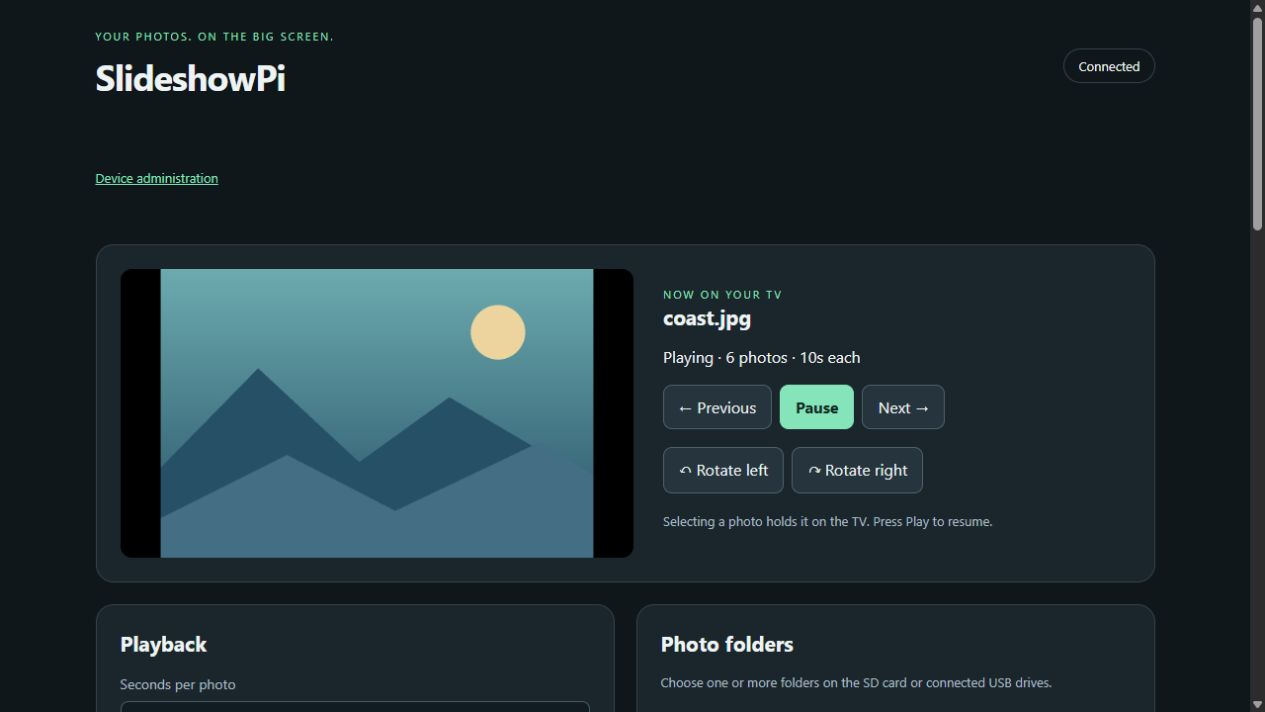
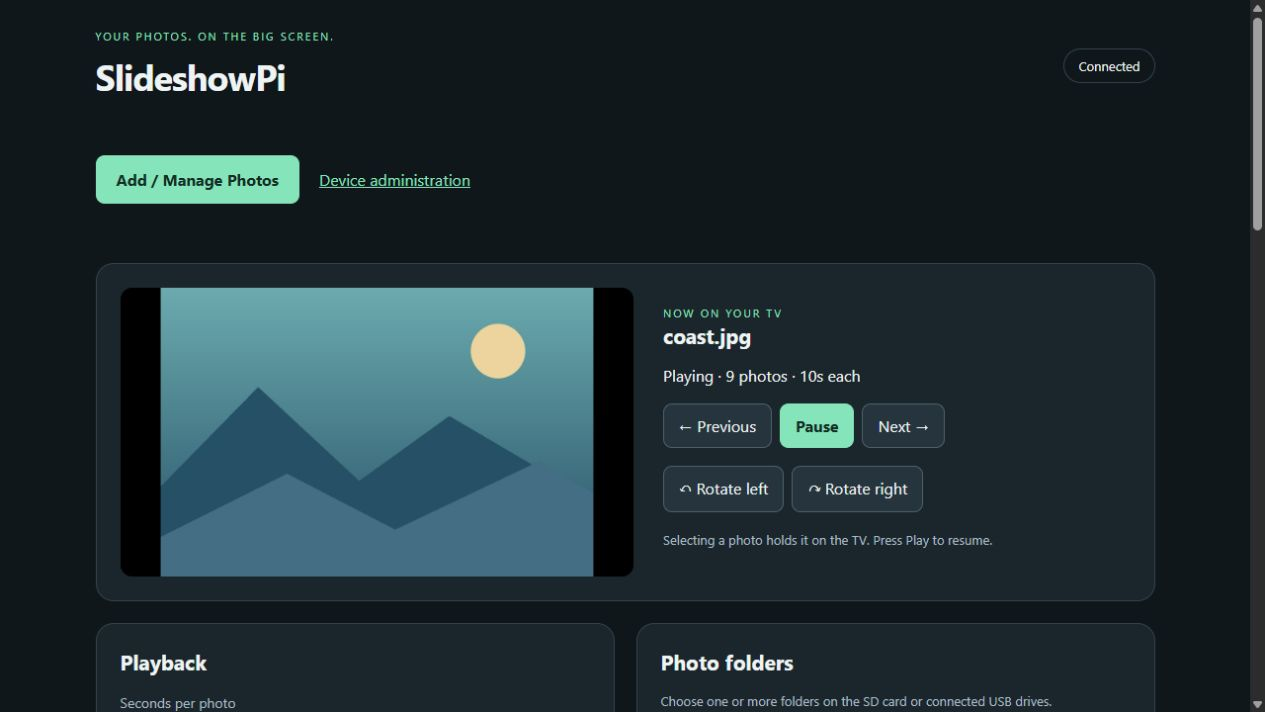
Make photo management prominent and remove duplicate upload controls

diff --git a/static/app.js b/static/app.js
@@ -26,11 +26,7 @@ function populateFolders(next) {
     label.append(input, document.createTextNode(path.replace('/var/lib/pi-slideshow/photos', 'SD / photos').replace('/media/slideshow/', 'USB / ')));
     $('folder-list').append(label);
   }
-  for (const id of ['destination', 'parent']) {
-    const selected = $(id).value;
-    $(id).replaceChildren(...next.folders.map(path => { const option = document.createElement('option'); option.value = path; option.textContent = path.replace('/var/lib/pi-slideshow/photos', 'SD / photos').replace('/media/slideshow/', 'USB / '); return option; }));
-    if (next.folders.includes(selected)) $(id).value = selected;
-  }
+
 }
 async function loadGallery() {
   const result = await api('images?page=' + page + '&q=' + encodeURIComponent(search));
@@ -89,32 +85,6 @@ $('rotate-right').onclick = guarded(() => control('rotate', undefined, 90));
 $('playback-form').onsubmit = guarded(async () => { await api('settings', {seconds: Number($('seconds').value), fit: $('fit').value, shuffle: $('shuffle').checked, recursive: $('recursive').checked}); notice('Playback settings saved.'); await poll(); });
 $('folders-form').onsubmit = guarded(async () => { await api('settings', {folders: [...$('folder-list').querySelectorAll('input:checked')].map(i => i.value)}); page = 0; galleryKey = ''; notice('Photo folders saved.'); await poll(); });
 $('rescan').onclick = guarded(async () => { await api('rescan', {}); galleryKey = ''; await poll(); notice('Storage refreshed.'); });
-$('new-folder-form').onsubmit = guarded(async () => { const result = await api('folders', {parent: $('parent').value, name: $('folder-name').value}); await poll(); $('destination').value = result.path; $('folder-name').value = ''; notice('Folder created. Select it under Photo folders to include it in playback.'); });
-function upload(file, folder, progress) {
-  return new Promise((resolve, reject) => {
-    const xhr = new XMLHttpRequest(), data = new FormData(); data.append('folder', folder); data.append('image', file);
-    xhr.open('POST', '/api/upload'); xhr.setRequestHeader('X-Slideshow-Token', token);
-    xhr.upload.onprogress = event => { if (event.lengthComputable) progress(event.loaded / event.total); };
-    xhr.onerror = () => reject(new Error('Connection lost during upload.'));
-    xhr.onload = () => { try { const result = JSON.parse(xhr.responseText); xhr.status >= 200 && xhr.status < 300 ? resolve(result) : reject(new Error(result.error || 'Upload failed.')); } catch { reject(new Error('Upload failed.')); } };
-    xhr.send(data);
-  });
-}
-$('upload-form').onsubmit = guarded(async () => {
-  const files = [...$('photos').files], folder = $('destination').value;
-  $('upload-button').disabled = true; $('progress').hidden = false;
-  let done = 0, failures = [];
-  try {
-    for (const file of files) {
-      $('upload-status').textContent = `Uploading ${done + 1} of ${files.length}: ${file.name}`;
-      try { if (file.size > 32 * 1024 * 1024 - 4096) throw new Error('Larger than upload limit.'); await upload(file, folder, p => { $('progress').value = 100 * (done + p) / files.length; }); }
-      catch (e) { failures.push(`${file.name}: ${e.message}`); }
-      done++; $('progress').value = 100 * done / files.length;
-    }
-    $('upload-status').textContent = `${done - failures.length} uploaded. ${failures.join(' ')}`;
-    notice('Upload complete. Make sure the destination folder is selected for playback.', failures.length > 0); galleryKey = ''; await poll();
-  } finally { $('upload-button').disabled = false; }
-});
 $('page-back').onclick = guarded(async () => { page = Math.max(0, page - 1); await loadGallery(); });
 $('page-next').onclick = guarded(async () => { page++; await loadGallery(); });
 let searchTimer;

diff --git a/static/style.css b/static/style.css
@@ -2,3 +2,5 @@
 :root a{color:var(--accent)}.stats-grid{display:grid;grid-template-columns:repeat(3,minmax(0,1fr));gap:18px;margin:24px 0 32px}.stats-grid dt{color:var(--muted);font-size:13px;margin-bottom:8px}.stats-grid dd{margin:0;font-size:16px;overflow-wrap:anywhere}#storage,#services,#addresses{overflow-wrap:anywhere}#storage,#services{font-size:14px;margin-bottom:26px}@media(max-width:750px){.stats-grid{grid-template-columns:repeat(2,minmax(0,1fr))}}
 
 .file-layout{display:grid;grid-template-columns:210px minmax(0,1fr);gap:20px}.file-content{min-width:0}.file-layout aside button{display:block;width:100%;text-align:left;margin-bottom:10px}.file-grid{display:grid;grid-template-columns:repeat(3,minmax(0,1fr));gap:12px}.file-entry{border:1px solid var(--line);border-radius:10px;background:#111c22;padding:12px;min-width:0}.file-entry.selected{border-color:var(--accent)}.file-entry img{width:100%;height:110px;object-fit:contain;background:#080e11}.file-entry label{display:flex;gap:8px;align-items:start;overflow-wrap:anywhere}.file-entry button{width:100%;text-align:left;margin:8px 0;overflow-wrap:anywhere}.file-entry small{display:block;color:var(--muted);font-size:12px}.file-grid.list-view{display:block}.list-view .file-entry{display:flex;gap:12px;align-items:center;margin-bottom:8px;flex-wrap:wrap}.list-view .file-entry img{width:60px;height:45px}.list-view .file-entry label{flex:1;min-width:150px}.list-view .file-entry button{width:auto}.file-content .check{margin:0}#breadcrumbs,#destination-path{display:flex;flex-wrap:wrap;gap:5px;margin-bottom:12px}#selection{align-self:center;font-size:13px}.drop-zone{border:2px dashed #4b6069;padding:20px;border-radius:12px}.drop-zone.dragging{border-color:var(--accent);background:#223a32}.upload-queue{max-height:300px;overflow:auto}.upload-queue li{padding:8px;overflow-wrap:anywhere}.upload-queue progress{margin:6px 0}.folder-picker{max-height:260px;overflow:auto}.folder-picker button{display:block;width:100%;text-align:left;margin-bottom:8px}dialog{background:var(--panel);color:var(--text);border:1px solid var(--line);border-radius:16px;padding:24px;width:min(600px,95vw)}dialog::backdrop{background:#0009}@media(max-width:750px){.file-layout{grid-template-columns:1fr}.file-layout aside{margin-bottom:0}.file-grid{grid-template-columns:repeat(2,minmax(0,1fr))}}
+
+.page-actions{display:flex;align-items:center;gap:20px;flex-wrap:wrap;margin-bottom:20px}.button-link{display:inline-block;border:1px solid var(--accent);border-radius:9px;padding:13px 20px;text-decoration:none}.button-link.primary{background:var(--accent);color:#122c22;font-weight:650}.button-link:hover{filter:brightness(1.08)}.button-link:focus-visible{outline:2px solid var(--accent);outline-offset:3px}

diff --git a/templates/index.html b/templates/index.html
@@ -9,7 +9,7 @@
 <body>
 <header><div><span class="eyebrow">YOUR PHOTOS. ON THE BIG SCREEN.</span><h1>SlideshowPi</h1></div><span id="connection" class="badge">Connecting…</span></header>
 <main>
-  <p class="hint"><a href="/files">Files</a> · <a href="/admin">Device administration</a>{% if photo_protected %} · <button id="photo-logout">Sign out of photos</button>{% endif %}</p>
+  <div class="page-actions"><a class="button-link primary" href="/files">Add / Manage Photos</a><a href="/admin">Device administration</a>{% if photo_protected %}<button id="photo-logout">Sign out of photos</button>{% endif %}</div>
   <p id="notice" role="status" aria-live="polite"></p>
   <section class="card live">
     <div class="preview"><img id="current-preview" alt="Current TV image" hidden><p id="empty">Upload photos and select a folder to begin.</p></div>
@@ -32,14 +32,6 @@
       <p id="missing" class="hint"></p>
     </section>
   </div>
-  <section class="card"><h2>Add photos</h2><div class="columns">
-    <form id="upload-form"><label for="destination">Destination folder</label><select id="destination" required></select>
-      <label for="photos">Select photos</label><input id="photos" type="file" accept="image/jpeg,image/png,image/webp,image/bmp" multiple required>
-      <p class="hint">JPEG, PNG, WebP or BMP. Up to 32 MB and 24 megapixels per photo. Originals are preserved; rotation changes the display only.</p>
-      <button class="primary" id="upload-button" type="submit">Upload photos</button><progress id="progress" max="100" value="0" hidden></progress><p id="upload-status" role="status"></p>
-    </form>
-    <form id="new-folder-form"><label for="parent">New folder location</label><select id="parent" required></select><label for="folder-name">Folder name</label><input id="folder-name" maxlength="100" placeholder="Holiday photos" required><button type="submit">Create folder</button></form>
-  </div></section>
   <section class="card"><div class="library-heading"><div><h2>Photo library</h2><p class="hint">Tap Show to put a specific photo on the TV. Delete permanently removes a photo from SD or USB storage after confirmation.</p></div><input id="search" type="search" placeholder="Search filenames" aria-label="Search filenames"></div>
     <div id="gallery" class="gallery"></div><div class="pagination"><button id="page-back">← Back</button><span id="page-label"></span><button id="page-next">More →</button></div>
   </section>

diff --git a/README.md b/README.md
@@ -264,7 +264,7 @@ Use **Delete** below a photo in the web photo library, then confirm its filename
 
 ### Files and folder management
 
-Open **Files** from the slideshow page (or visit `/files`). The sidebar lists SD photo storage and mounted USB drives. Open folders and use breadcrumbs or Up to navigate. Switch between thumbnail grid and list view. Check individual entries, Shift-click a range on a computer, or select the current page (100 entries maximum per operation).
+Choose the prominent **Add / Manage Photos** button at the top of the slideshow page (or visit `/files`). Uploads and folder creation live on the Files page; the slideshow page keeps its live controls, settings, folder selection and photo library. The sidebar lists SD photo storage and mounted USB drives. Open folders and use breadcrumbs or Up to navigate. Switch between thumbnail grid and list view. Check individual entries, Shift-click a range on a computer, or select the current page (100 entries maximum per operation).
 
 - **Move to… / Copy to…**: browse to a destination, then choose Keep both or Skip for name conflicts. Keep both adds a number; existing entries are never silently overwritten. Folders are copied as a whole rather than merged.
 - **Cut / Paste here**: select entries, choose Cut, navigate to a folder, then Paste here. This clipboard stays in the current browser tab; paste keeps both on conflicts.
